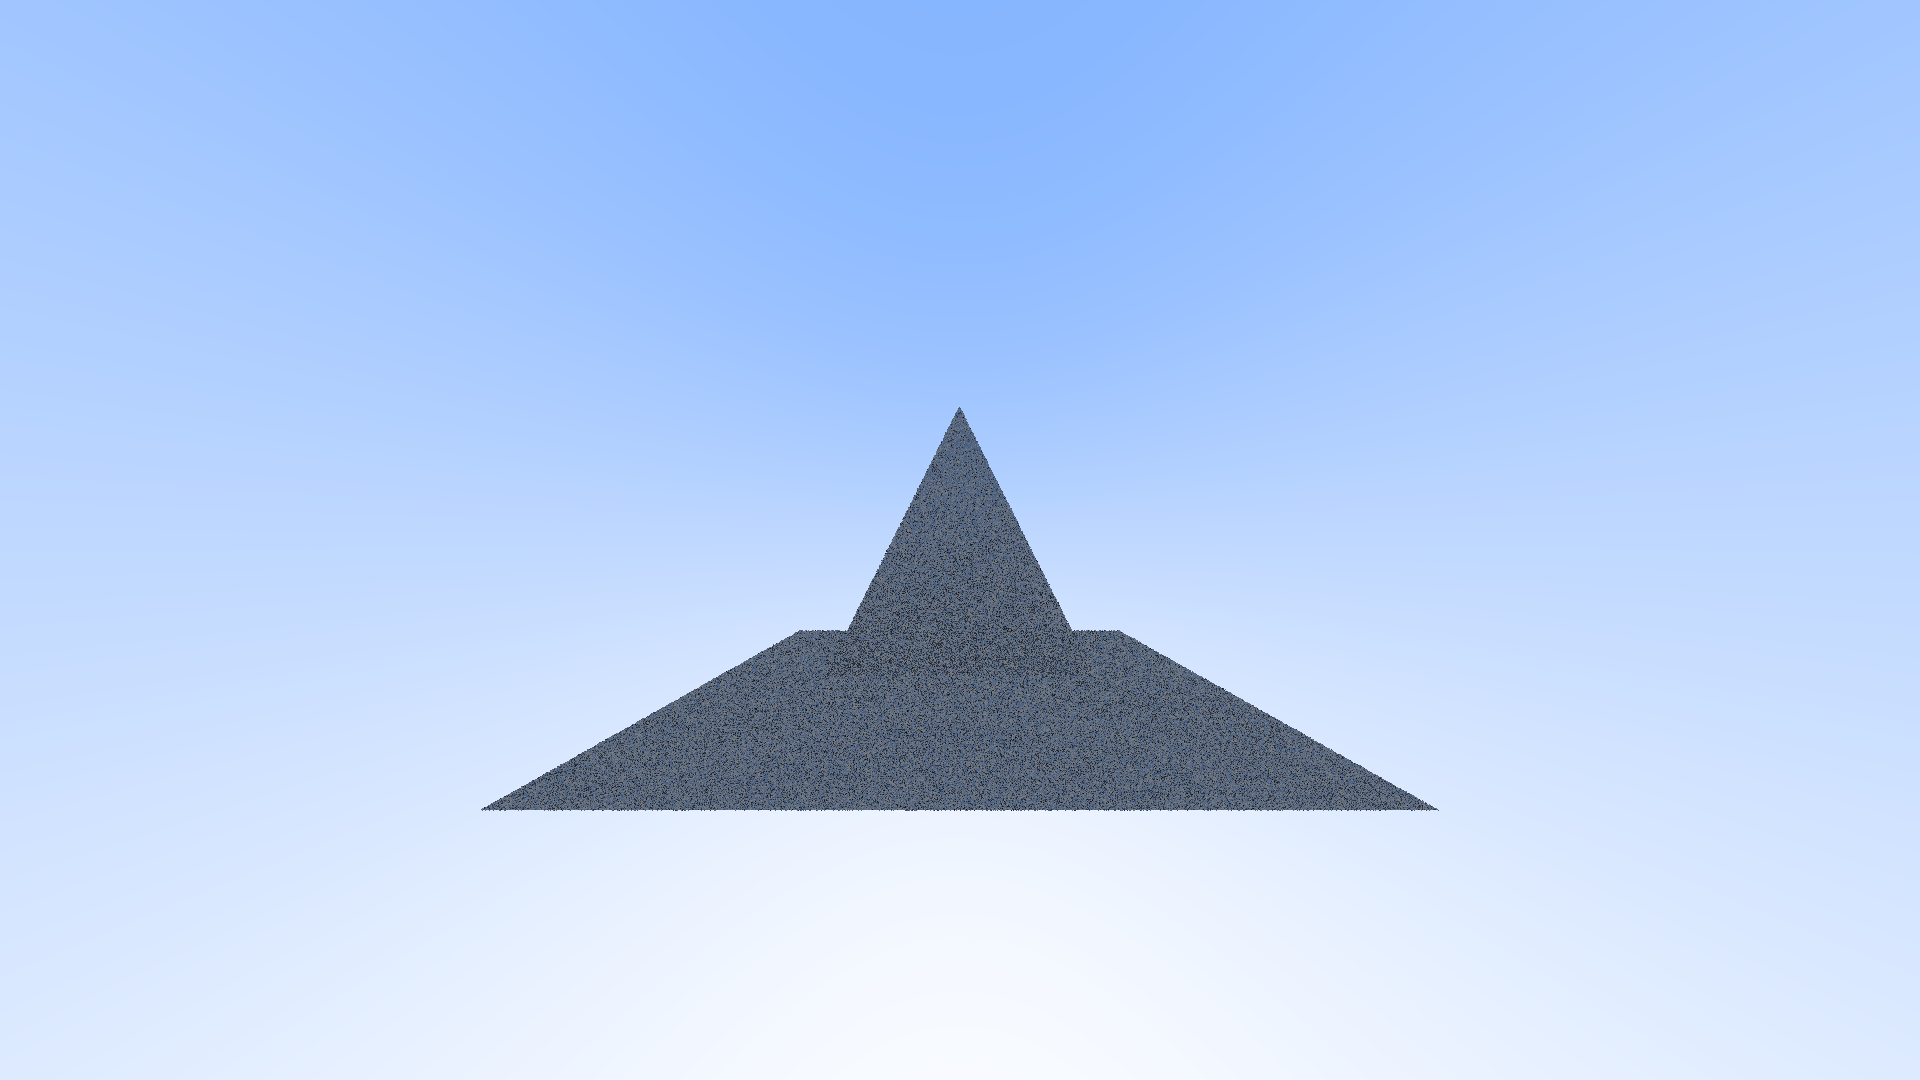
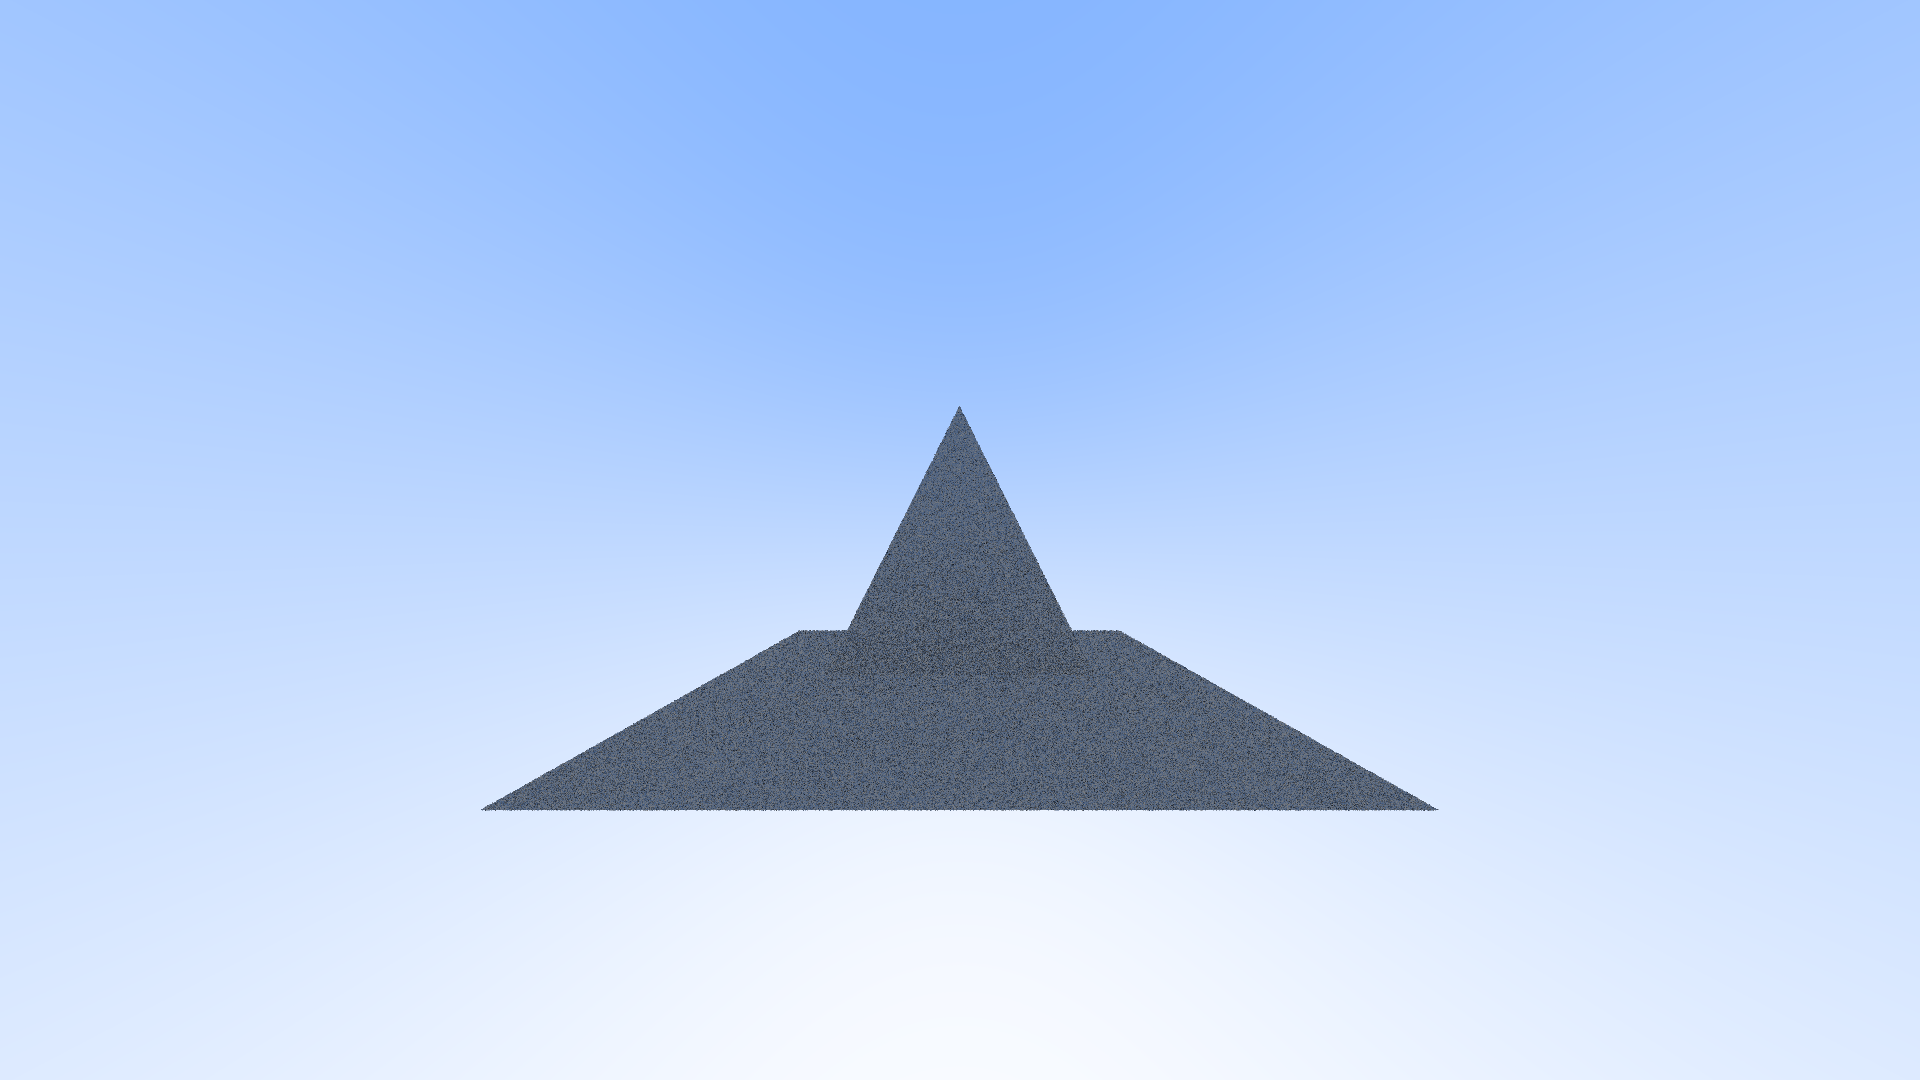
commitr

Changed region(s): [[0.25, 0.3972, 0.75, 0.7639]]

diff --git a/main.c b/main.c
@@ -21,7 +21,7 @@ typedef CGLM_ALIGN_IF(16) vec4 mat4[4];
 #define OUTPUT_IMAGE_HEIGHT 1080
 #define OUTPUT_IMAGE_WIDTH 1920
 
-#define AA_SAMPLES 1
+#define AA_SAMPLES 2
 #define BOUNCE_DEPTH 1
 
 typedef struct {
@@ -68,7 +68,7 @@ int main() {
 
     // Scene Description
 
-    object scene[1];
+    object scene[2];
 
     vec3 origin = {0.0f, 0.0f, 0.0f};
     double focal_length = 1.0;
@@ -176,30 +176,32 @@ int main() {
 	float minX = 0;
 	float minY = 0;
 
+    scene[1].id = 1;
+    scene[1].triangle_list = malloc(sizeof(triangle) * number_triangles);
+    scene[1].list_size = number_triangles;
+    scene[1].root = test_bvh;
+
     for (unsigned int i = 0; i < number_triangles; i++) {
-        // discard normal vector 12 bytes
-        // Maybe we can use this?
-        fseek(ptr, 12, SEEK_CUR);
+        triangle temp;
+        vec3 buffer[4]; 
 
-        // Read vertices 3 * 12 bytes
-        fread(&vertices[i * 3], sizeof(vec3), 3, ptr);
+        fread(buffer, sizeof(vec3) * 4, 1, ptr);
 
-		if(vertices[i * 3][0] > maxX){
-			maxX = vertices[i * 3][0];
-		}else if(vertices[i * 3][0] < minX){
-			minX = vertices[i * 3][0];
-		}
+        
+        memcpy(temp.normal, buffer[0], sizeof(vec3));
+        memcpy(temp.vertex1, buffer[1], sizeof(vec3));
+        memcpy(temp.vertex2, buffer[2], sizeof(vec3));
+        memcpy(temp.vertex3, buffer[3], sizeof(vec3));
+        memcpy(temp.colour, (vec3){255, 255, 255}, sizeof(vec3));
+        glm_vec3_copy((vec3) {255, 255, 255}, temp.colour);
 
-
-		if(vertices[i * 3][1] > maxY){
-			maxY = vertices[i * 3][1];
-		}else if(vertices[i * 3][1] < minY){
-			minX = vertices[i * 3][1];
-		}
+        scene[1].triangle_list[i] = temp;       
 
         // Discard attribute 2 byte 
         fseek(ptr, 2, SEEK_CUR);
     }
+
+    
 
     fclose(ptr);
 
@@ -244,9 +246,9 @@ int main() {
             }
 
             glm_vec3_clamp(pixel_colour, 0 , AA_SAMPLES * 255);
-            frameData[index] = (unsigned char) pixel_colour[0] / AA_SAMPLES;
-            frameData[index + 1] = (unsigned char) pixel_colour[1] / AA_SAMPLES;
-            frameData[index + 2] = (unsigned char) pixel_colour[2] / AA_SAMPLES;
+            frameData[index] = (unsigned char) (pixel_colour[0] / AA_SAMPLES);
+            frameData[index + 1] = (unsigned char) (pixel_colour[1] / AA_SAMPLES);
+            frameData[index + 2] = (unsigned char) (pixel_colour[2] / AA_SAMPLES);
 
             index += 3;
         }
